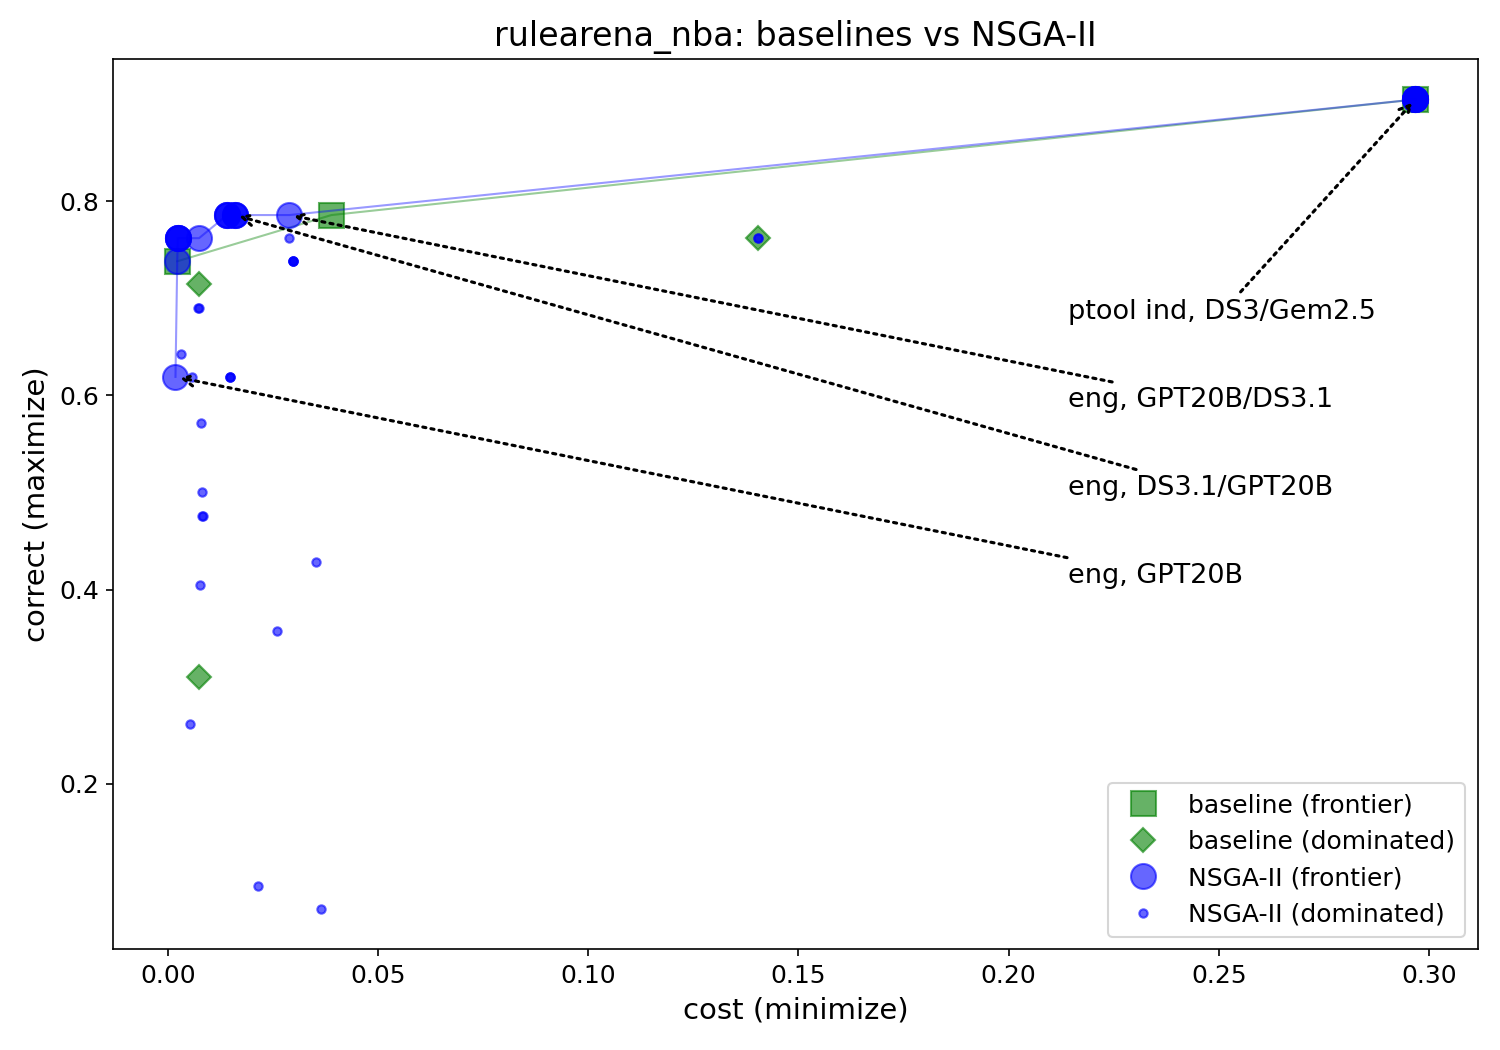
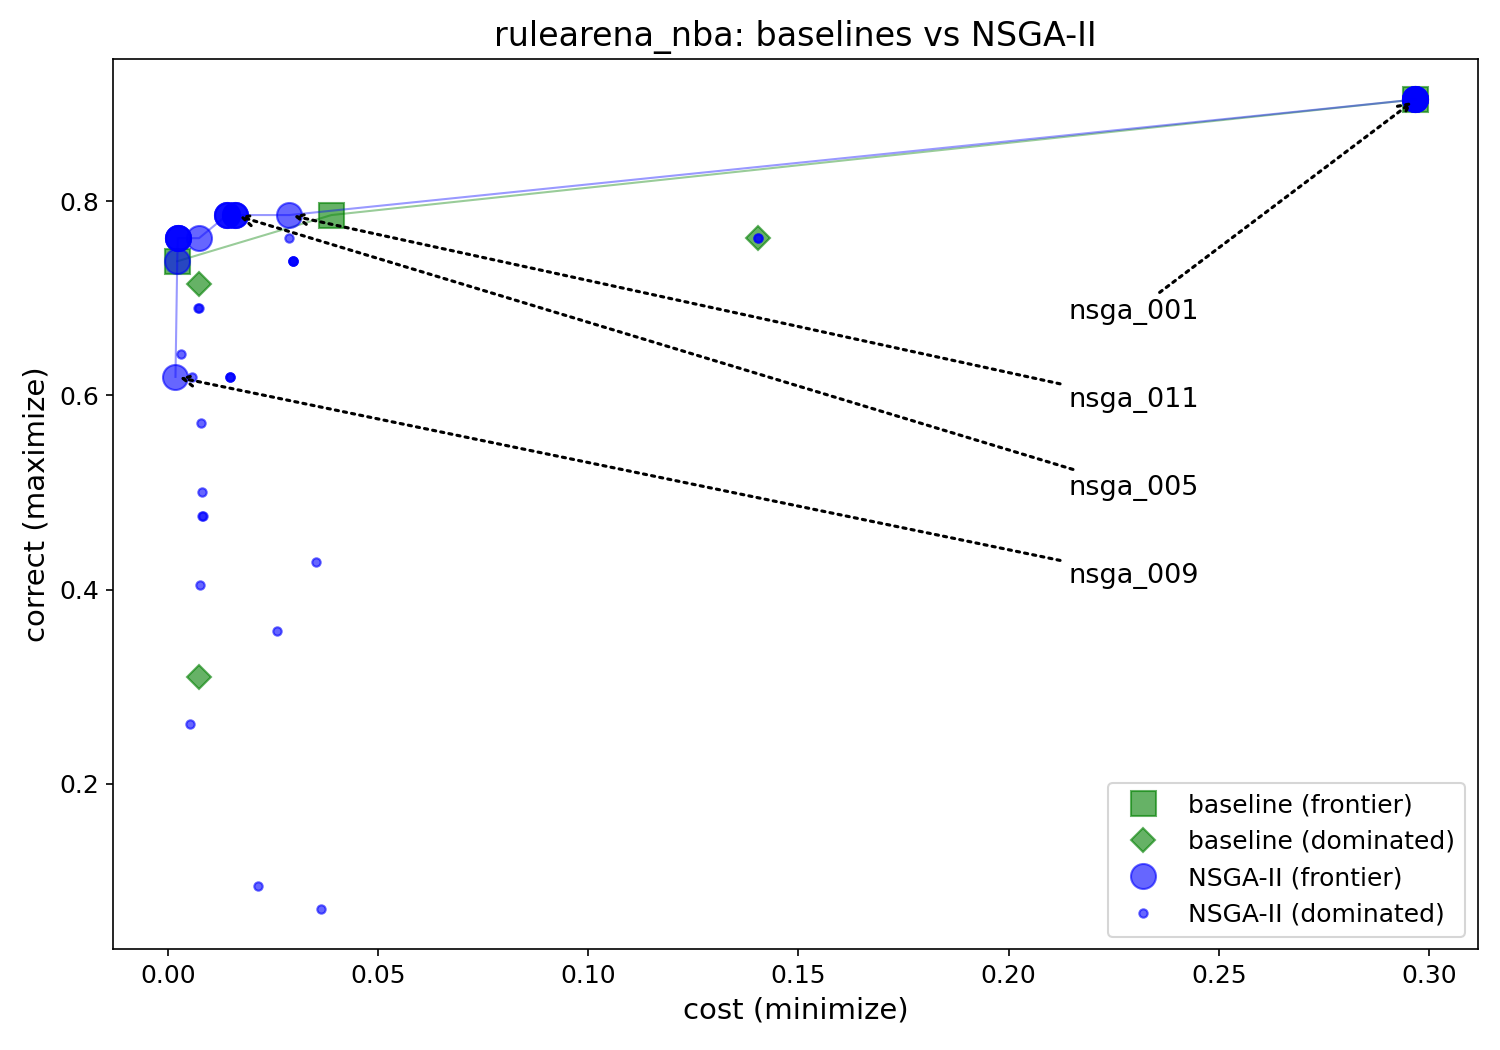
bits and pieces for the paper

diff --git a/scripts/learning_table.py b/scripts/learning_table.py
@@ -16,9 +16,9 @@ KEYTASKS = [
     "natural_plan/meeting",
     "natural_plan/trip",
     "rulearena/nba",
-#    "medcalc/overall",
-#    "medcalc/formula",
-#    "medcalc/rules",
+    "medcalc/overall",
+    "medcalc/formula",
+    "medcalc/rules",
 ]
 
 BASE = os.path.join(os.path.dirname(__file__), "..", "benchmarks", "COMMON")
@@ -102,21 +102,16 @@ def find_react_learned_csv(task, subtask):
     return None
 
 
-ORCHESTRATOR_EXISTING_DIR = os.path.join(BASE, "orchestrator-results", "existing_workflow")
-ORCHESTRATOR_DIR = os.path.join(BASE, "orchestrator-results", "seed_from_ptools")
+ORCHESTRATOR_DIR = os.path.join(BASE, "orchestrator-results")
+ORCHESTRATOR_INDUCED_DIR = os.path.join(BASE, "orchestrator-induced-ptools-results")
 
 
-def find_orchestrator_existing_csv(task, subtask):
-    """Find orchestrator/existing_workflow results CSV for a task/subtask."""
-    if task == "medcalc":
-        subtask_dir = os.path.join(ORCHESTRATOR_EXISTING_DIR, "medcalc", "results",
-                                   "learned_from_all_traces", subtask)
-    else:
-        task_subtask = f"{task}_{subtask}".replace("natural_plan", "natplan")
-        subtask_dir = os.path.join(ORCHESTRATOR_EXISTING_DIR, task_subtask, "results")
-    if not os.path.isdir(subtask_dir):
+def _find_orchestrator_csv(base_dir, task, subtask, suffix):
+    """Find orchestrator results CSV, mirroring find_codedistill_csv layout."""
+    task_dir = os.path.join(base_dir, task, "test_results_full")
+    if not os.path.isdir(task_dir):
         return None
-    result = find_latest_dir(subtask_dir, "*test*")
+    result = find_latest_dir(task_dir, f"*{subtask}_test_full_{suffix}")
     if result:
         csv_path = os.path.join(result, "results.csv")
         if os.path.isfile(csv_path):
@@ -124,26 +119,16 @@ def find_orchestrator_existing_csv(task, subtask):
     return None
 
 
-def find_orchestrator_csv(task, subtask):
-    """Find orchestrator results CSV for a task/subtask."""
-    if task == "medcalc":
-        subtask_dir = os.path.join(ORCHESTRATOR_DIR, "medcalc", "results",
-                                   "learned_from_all_traces", subtask)
-    elif task == "rulearena" and subtask == "nba":
-        # with_rulebook used a custom benchmark-specific prompting scheme
-        subtask_dir = os.path.join(ORCHESTRATOR_DIR, "rulearena_nba", "results",
-                                   "without_rulebook")
-    else:
-        task_subtask = f"{task}_{subtask}".replace("natural_plan", "natplan")
-        subtask_dir = os.path.join(ORCHESTRATOR_DIR, task_subtask, "results")
-    if not os.path.isdir(subtask_dir):
-        return None
-    result = find_latest_dir(subtask_dir, "*test*")
-    if result:
-        csv_path = os.path.join(result, "results.csv")
-        if os.path.isfile(csv_path):
-            return csv_path
-    return None
+def find_orchestrator_human_csv(task, subtask):
+    """Find orchestrator results CSV with human ptools."""
+    return _find_orchestrator_csv(ORCHESTRATOR_DIR, task, subtask,
+                                  "orch_seed_from_ptools")
+
+
+def find_orchestrator_learned_csv(task, subtask):
+    """Find orchestrator results CSV with induced/learned ptools."""
+    return _find_orchestrator_csv(ORCHESTRATOR_INDUCED_DIR, task, subtask,
+                                  "orch_induced_seed_ptools")
 
 
 def find_optimizer_csv(task, subtask):
@@ -205,9 +190,10 @@ def _add_row(correct_rows, cost_rows, label_cols, col_names, find_fn, tasks):
     cost_rows.append(cost_row)
 
 
-def build_dataframes(include_opus=False, suppress=None, transpose=False):
+def build_dataframes(include_opus=False, suppress_tasks=None, suppress_rows=None, transpose=False):
     """Build DataFrames for correctness and cost (USD per 100 examples)."""
-    tasks = [t for t in KEYTASKS if t not in (suppress or [])]
+    tasks = [t for t in KEYTASKS if t not in (suppress_tasks or [])]
+    suppress_rows = set(suppress_rows or [])
     col_names = [
         f"{t.split('/')[0].replace('natural_plan', 'natplan')}/{t.split('/')[1]}"
         for t in tasks
@@ -240,15 +226,15 @@ def build_dataframes(include_opus=False, suppress=None, transpose=False):
                      lambda t, s, ll=learner_llm, pc=ptool_class: find_codedistill_csv(t, s, learner_llm=ll, ptool_class=pc),
                      tasks)
 
-    # Orchestrator (existing workflow) row
+    # Orchestrator with human ptools row
     _add_row(correct_rows, cost_rows,
              {"workflow": "orchest", "model": "-", "toolkit": "human"},
-             col_names, find_orchestrator_existing_csv, tasks)
+             col_names, find_orchestrator_human_csv, tasks)
 
-    # Orchestrator (seed from ptools) row
+    # Orchestrator with learned/induced ptools row
     _add_row(correct_rows, cost_rows,
              {"workflow": "orchest", "model": "-", "toolkit": "learned"},
-             col_names, find_orchestrator_csv, tasks)
+             col_names, find_orchestrator_learned_csv, tasks)
 
     # Optimizer row: NSGA-II Pareto top-1 by test accuracy.
     _add_row(correct_rows, cost_rows,
@@ -257,6 +243,12 @@ def build_dataframes(include_opus=False, suppress=None, transpose=False):
 
     correct_df = pd.DataFrame(correct_rows)
     cost_df = pd.DataFrame(cost_rows)
+
+    if suppress_rows:
+        key = correct_df["workflow"] + "/" + correct_df["toolkit"]
+        mask = ~key.isin(suppress_rows)
+        correct_df = correct_df[mask].reset_index(drop=True)
+        cost_df = cost_df[mask].reset_index(drop=True)
 
     if transpose:
         # Tasks as rows, methods as columns
@@ -298,19 +290,176 @@ def build_dataframes(include_opus=False, suppress=None, transpose=False):
     return correct_df, cost_df
 
 
+def _parse_cell(cell):
+    """Parse a 'mean+/-sem' or plain number cell, returning (mean, sem) or None."""
+    if not isinstance(cell, str):
+        return None
+    if "+/-" in cell:
+        parts = cell.split("+/-")
+        return float(parts[0].strip()), float(parts[1].strip())
+    try:
+        return float(cell.strip()), 0.0
+    except ValueError:
+        return None
+
+
+def _print_latex(df, caption, minimize=False, transpose=False):
+    """Print a LaTeX table from a DataFrame with 'mean+/-sem' cells.
+
+    Bold the best value in each task column (max for correctness, min for cost).
+    """
+    if transpose:
+        # tasks are rows, methods are columns
+        task_cols = list(df.columns)
+        print(r"\begin{table*}[ht]")
+        print(r"\centering")
+        print(r"\begin{tabular}{l" + "c" * len(task_cols) + "}")
+        print(r"\toprule")
+        print("Task & " + " & ".join(c.replace("_", r"\_") for c in task_cols) + r" \\")
+        print(r"\midrule")
+        for task in df.index:
+            parsed = {c: _parse_cell(df.loc[task, c]) for c in task_cols}
+            means = [p[0] for p in parsed.values() if p is not None]
+            best = (min(means) if minimize else max(means)) if means else None
+            cells = []
+            for c in task_cols:
+                p = parsed[c]
+                if p is None:
+                    cells.append("--")
+                else:
+                    mean, sem = p
+                    if mean == best:
+                        cells.append(f"$\\mathbf{{{mean:.2f}}}$")
+                    else:
+                        cells.append(f"${mean:.2f}$")
+            label = task.replace("_", r"\_")
+            if task == "average":
+                print(r"\midrule")
+                label = r"\textrm{Average}"
+            print(label + " & " + " & ".join(cells) + r" \\")
+        print(r"\bottomrule")
+        print(r"\end{tabular}")
+        print(r"\caption{" + caption + "}")
+        print(r"\end{table*}")
+    else:
+        # methods are rows, tasks are columns
+        label_cols = [c for c in ["workflow", "ptools", "model"] if c in df.columns]
+        task_cols = [c for c in df.columns if c not in label_cols]
+
+        # Build grouped two-line header
+        _GROUP_NAMES = {
+            "musr": "MuSR",
+            "natplan": "NaturalPlan",
+            "rulearena": "RuleArena",
+        }
+        groups = []  # list of (group_name, [col_names])
+        for col in task_cols:
+            if col == "average":
+                groups.append((None, [col]))
+            else:
+                prefix = col.split("/")[0]
+                if groups and groups[-1][0] == prefix:
+                    groups[-1][1].append(col)
+                else:
+                    groups.append((prefix, [col]))
+
+        _SUBTASK_NAMES = {"nba": "NBA"}
+
+        def _subtask_label(col):
+            if col == "average":
+                return "Average"
+            sub = col.split("/")[1]
+            return _SUBTASK_NAMES.get(sub, sub.capitalize())
+
+        n_task_cols = len(task_cols)
+        print(r"\begin{table*}[ht]")
+        print(r"\centering")
+        print(r"\begin{tabular}{l" + "c" * n_task_cols + "}")
+        print(r"\toprule")
+
+        # First header line: group names with \multicolumn
+        group_cells = [""]  # empty cell for the label column
+        for prefix, cols in groups:
+            n = len(cols)
+            if prefix is None:
+                group_cells.append(f"\\multicolumn{{{n}}}{{c}}{{}}")
+            else:
+                name = _GROUP_NAMES.get(prefix, prefix)
+                group_cells.append(f"\\multicolumn{{{n}}}{{c}}{{{name}}}")
+        print(" & ".join(group_cells) + r" \\")
+
+        # Cmidrules for each group (skip ungrouped "average")
+        col_idx = 2  # 1-indexed, column 1 is the label
+        for prefix, cols in groups:
+            n = len(cols)
+            if prefix is not None:
+                print(f"\\cmidrule(lr){{{col_idx}-{col_idx + n - 1}}}")
+            col_idx += n
+
+        # Second header line: subtask names
+        subtask_cells = ["Workflow/Ptools"]
+        for col in task_cols:
+            subtask_cells.append(_subtask_label(col))
+        print(" & ".join(subtask_cells) + r" \\")
+        print(r"\midrule")
+
+        # Find best per task column
+        best_per_col = {}
+        for col in task_cols:
+            vals = [_parse_cell(v) for v in df[col]]
+            means = [p[0] for p in vals if p is not None]
+            if means:
+                best_per_col[col] = min(means) if minimize else max(means)
+
+        for _, row in df.iterrows():
+            # Combined workflow/ptools label
+            wf = str(row.get("workflow", ""))
+            pt = str(row.get("ptools", row.get("toolkit", "")))
+            label = f"{wf}/{pt}"
+            cells = [label.replace("_", r"\_")]
+            for c in task_cols:
+                p = _parse_cell(row[c])
+                if p is None:
+                    cells.append("--")
+                else:
+                    mean, sem = p
+                    if c in best_per_col and mean == best_per_col[c]:
+                        cells.append(f"$\\mathbf{{{mean:.2f}}}$")
+                    else:
+                        cells.append(f"${mean:.2f}$")
+            print(" & ".join(cells) + r" \\")
+        print(r"\bottomrule")
+        print(r"\end{tabular}")
+        print(r"\caption{" + caption + "}")
+        print(r"\end{table*}")
+
+
 def main():
     import argparse
     parser = argparse.ArgumentParser(description=__doc__)
     parser.add_argument("--include-opus", action="store_true",
                         help="Include codedistill rows for model=opus")
-    parser.add_argument("--suppress", nargs="+", default=[], metavar="TASK/SUBTASK",
+    parser.add_argument("--suppress-tasks", nargs="+", default=[], metavar="TASK/SUBTASK",
                         help="Omit specified TASK/SUBTASK entries from the table")
+    parser.add_argument("--suppress", nargs="+", default=[], metavar="WORKFLOW/PTOOLS",
+                        help="Omit rows matching workflow/ptools (e.g. ReAct/human)")
     parser.add_argument("--transpose", action="store_true",
                         help="Show tasks as rows and methods as columns")
+    parser.add_argument("--format", choices=["table", "latex-correct", "latex-cost"],
+                        default="table", help="Output format")
     args = parser.parse_args()
 
     correct_df, cost_df = build_dataframes(
-        include_opus=args.include_opus, suppress=args.suppress, transpose=args.transpose)
+        include_opus=args.include_opus, suppress_tasks=args.suppress_tasks,
+        suppress_rows=args.suppress, transpose=args.transpose)
+
+    if args.format == "latex-correct":
+        _print_latex(correct_df, "Correctness", minimize=False, transpose=args.transpose)
+        return
+    if args.format == "latex-cost":
+        _print_latex(cost_df, "Cost (USD per 100 examples)", minimize=True, transpose=args.transpose)
+        return
+
     print("=== Correctness ===")
     show_index = args.transpose
     print(correct_df.to_string(index=show_index))